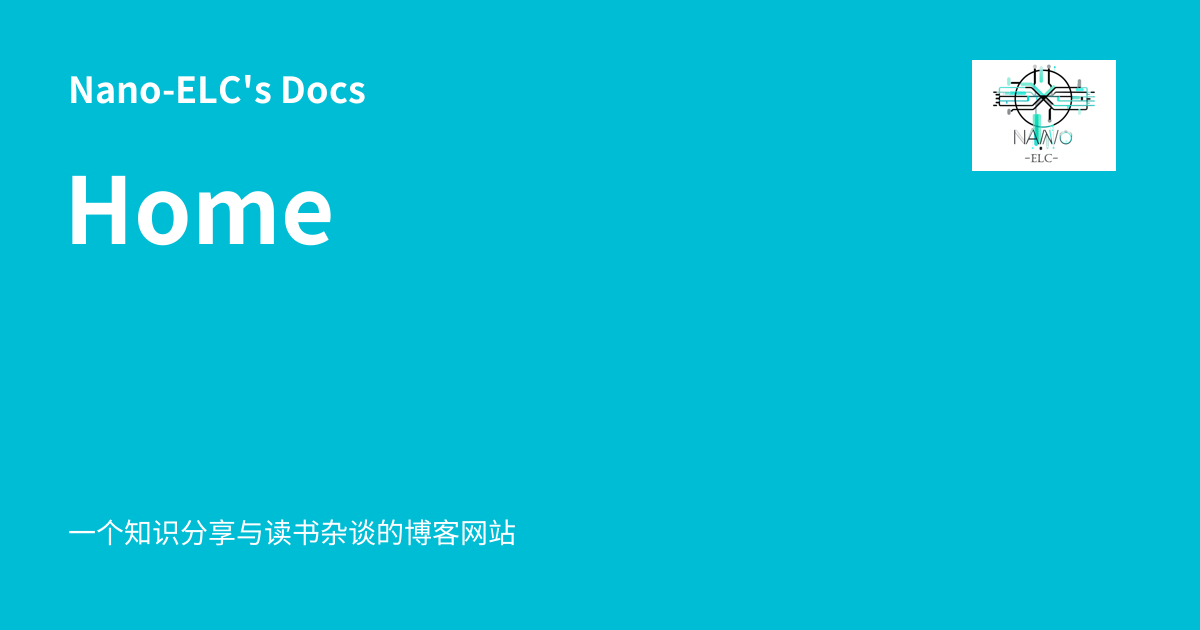
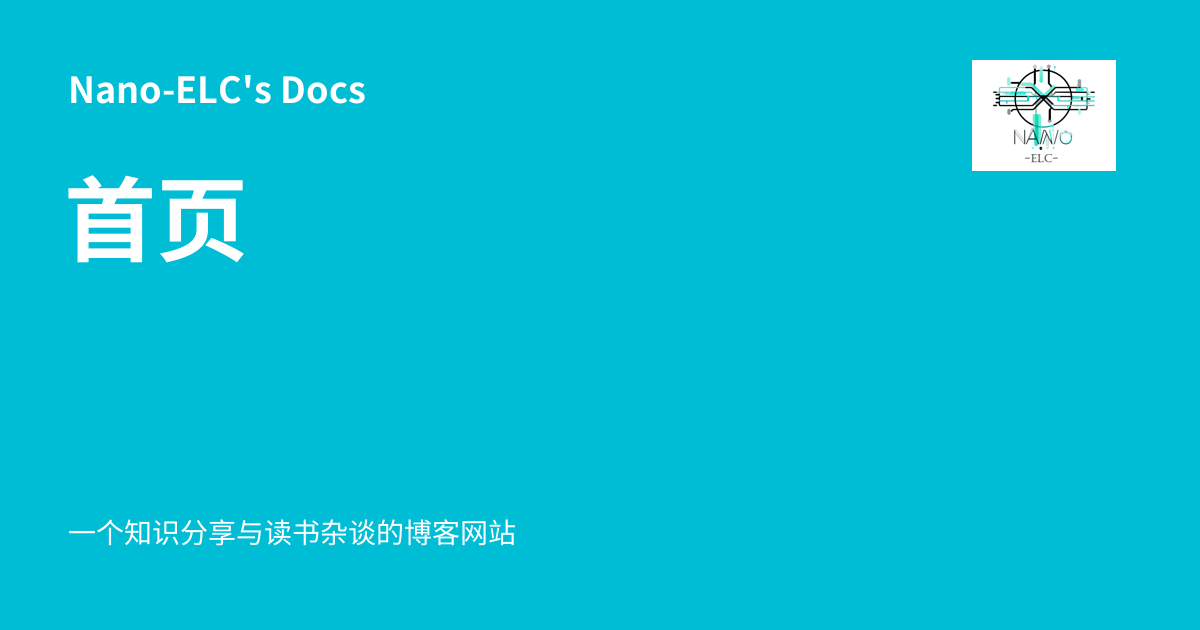
Deployed f74d8de with MkDocs version: 1.6.1

Changed region(s): [[0.0617, 0.2714, 0.2775, 0.4222]]

diff --git a/index.html b/index.html
@@ -24,7 +24,7 @@
     
     
       
-        <title>Nano-ELC's Docs</title>
+        <title>首页 - Nano-ELC's Docs</title>
       
     
     
@@ -153,7 +153,7 @@
         <div class="md-header__topic" data-md-component="header-topic">
           <span class="md-ellipsis">
             
-              Home
+              首页
             
           </span>
         </div>
@@ -752,6 +752,54 @@
 
 
 
+
+  <h2 id="__comments">Comments</h2>
+  <!-- Insert generated snippet here -->
+  <script src="https://giscus.app/client.js"
+  data-repo="Nano-ELC/myweb"
+  data-repo-id="R_kgDON0K9Og"
+  data-category="Announcements"
+  data-category-id="DIC_kwDON0K9Os4Cm5Id"
+  data-mapping="pathname"
+  data-strict="0"
+  data-reactions-enabled="1"
+  data-emit-metadata="0"
+  data-input-position="top"
+  data-theme="preferred_color_scheme"
+  data-lang="zh-CN"
+  data-loading="lazy"
+  crossorigin="anonymous"
+  async>
+</script>
+  <!-- Synchronize Giscus theme with palette -->
+  <script>
+    var giscus = document.querySelector("script[src*=giscus]")
+
+    /* Set palette on initial load */
+    var palette = __md_get("__palette")
+    if (palette && typeof palette.color === "object") {
+      var theme = palette.color.scheme === "slate" ? "dark" : "light"
+      giscus.setAttribute("data-theme", theme) 
+    }
+
+    /* Register event handlers after documented loaded */
+    document.addEventListener("DOMContentLoaded", function() {
+      var ref = document.querySelector("[data-md-component=palette]")
+      ref.addEventListener("change", function() {
+        var palette = __md_get("__palette")
+        if (palette && typeof palette.color === "object") {
+          var theme = palette.color.scheme === "slate" ? "dark" : "light"
+
+          /* Instruct Giscus to change theme */
+          var frame = document.querySelector(".giscus-frame")
+          frame.contentWindow.postMessage(
+            { giscus: { setConfig: { theme } } },
+            "https://giscus.app"
+          )
+        }
+      })
+    })
+  </script>
 
                 
               </article>
